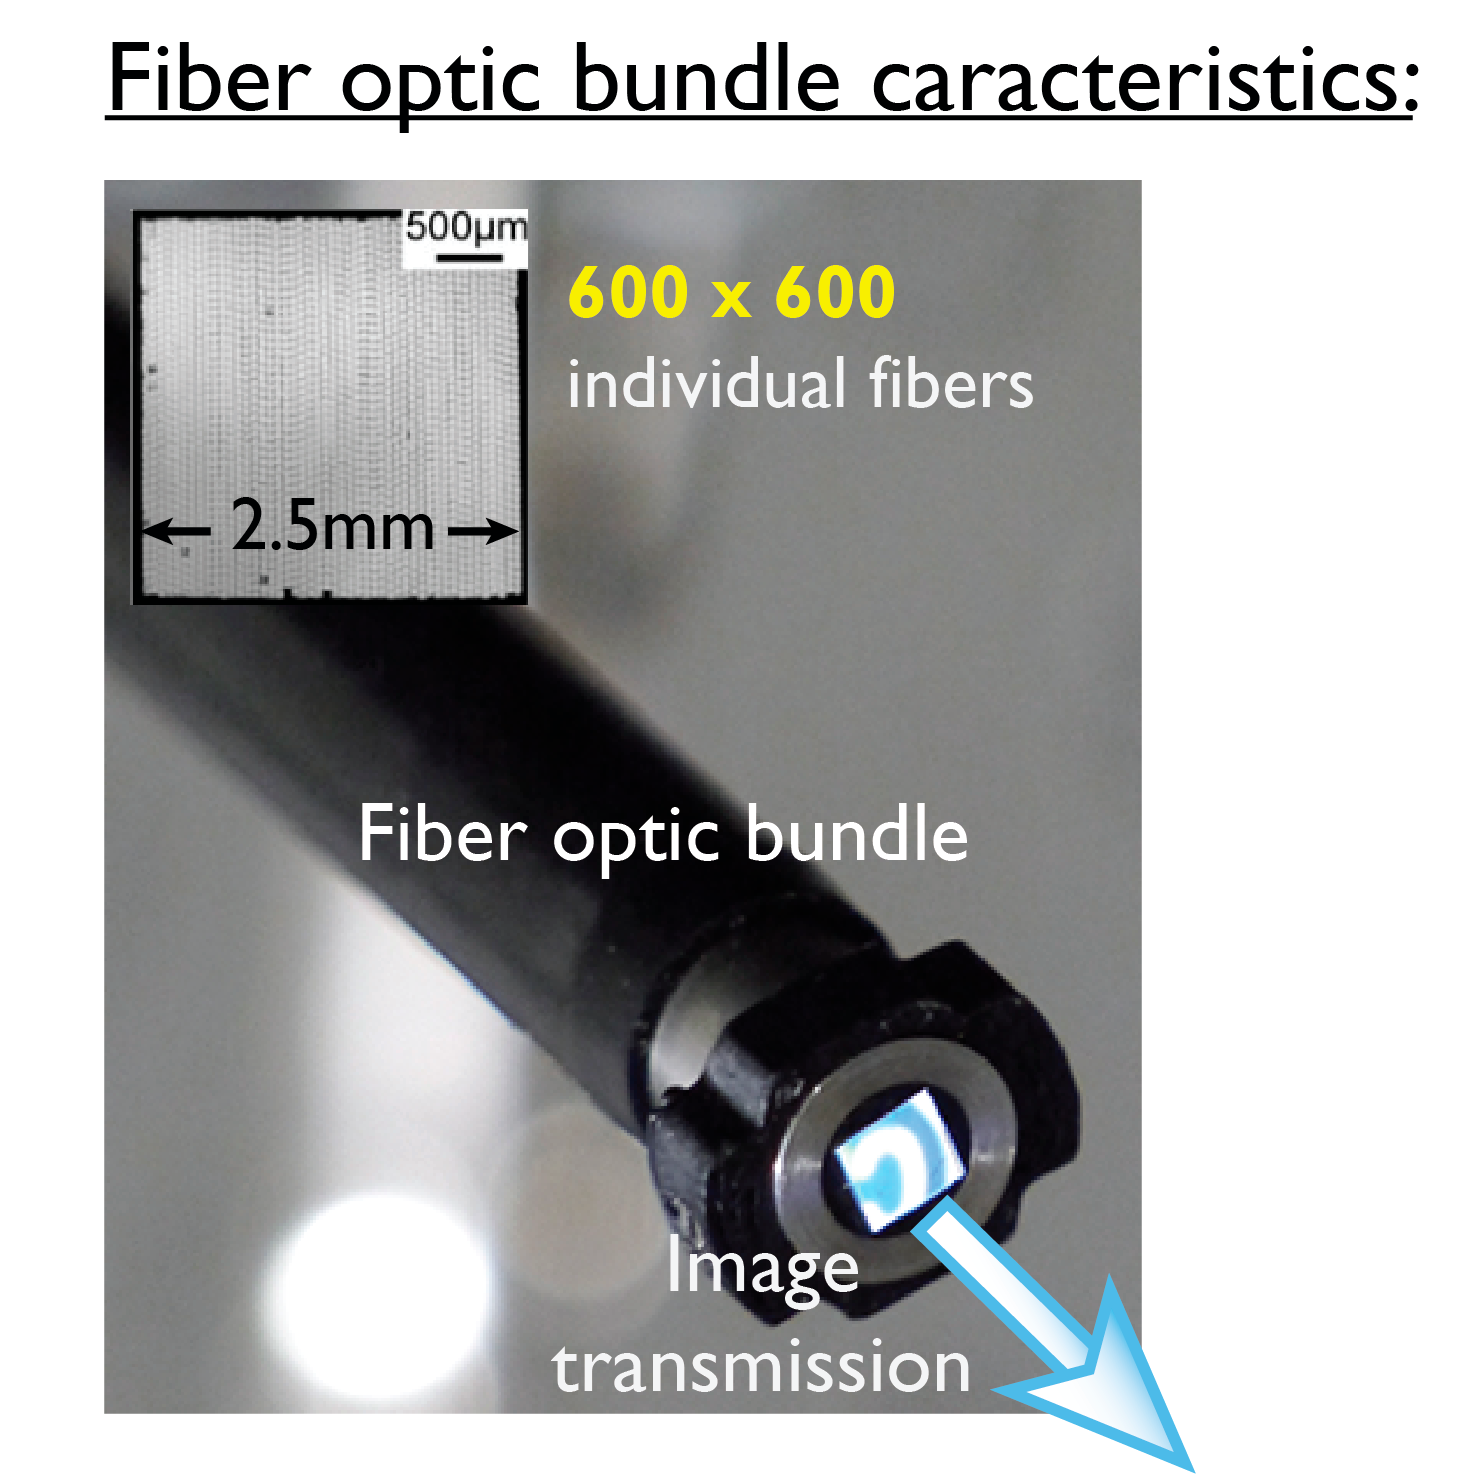
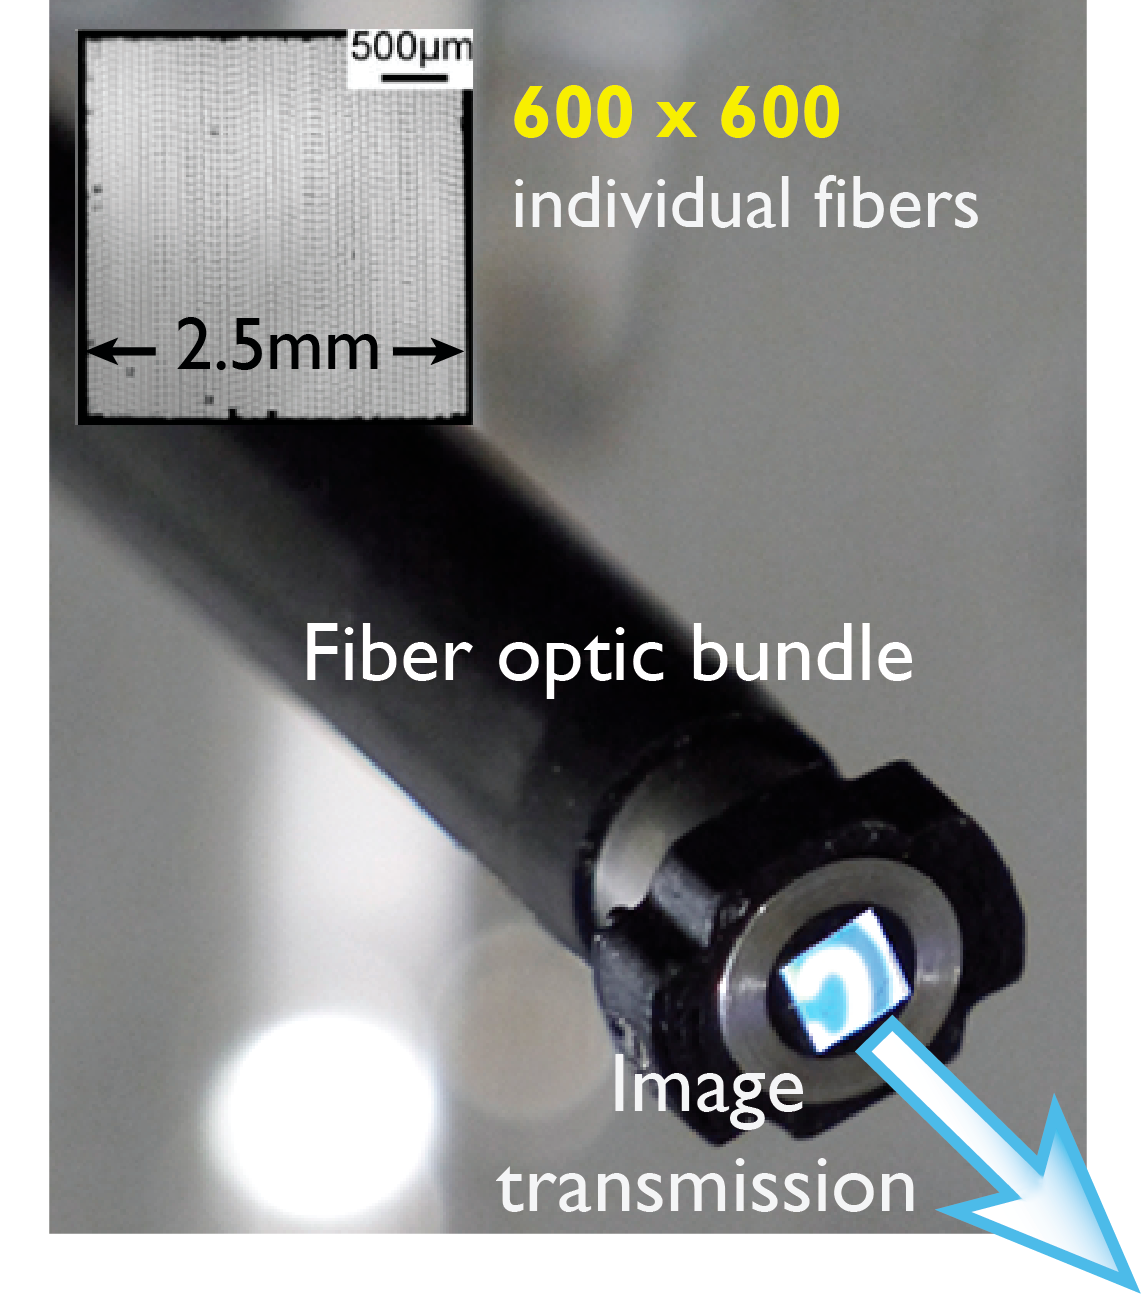
update images transparency

diff --git a/_layouts/default.html b/_layouts/default.html
@@ -115,7 +115,7 @@ img {
   display: block;
   margin-left: auto;
   margin-right: auto;
-  max-width: 100%;
+  /*max-width: 100%;*/
 }
 
 .largeheader {
